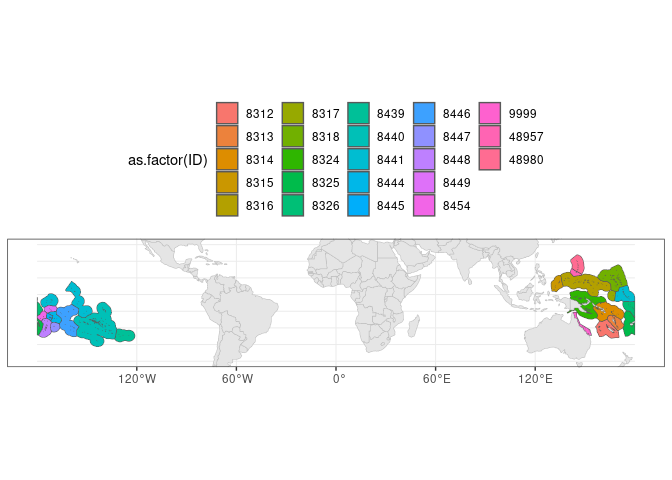
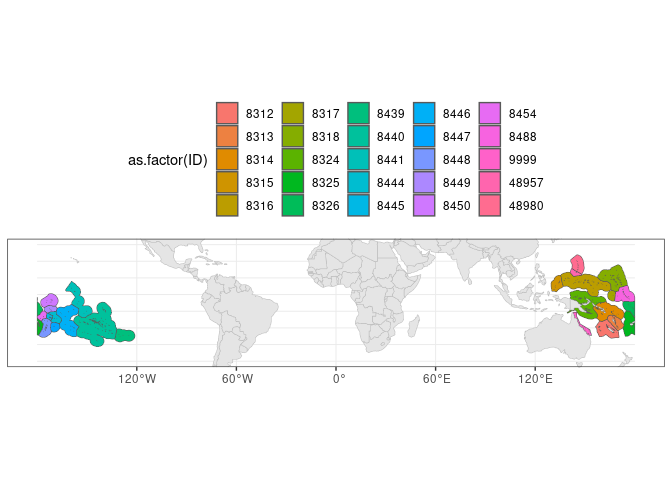
Updating notebook with new shapefile PICT

diff --git a/Scripts/01_Creating_Mask_SouthPacific_EEZs.md b/Scripts/01_Creating_Mask_SouthPacific_EEZs.md
@@ -60,6 +60,7 @@ combination of `R` and `Python` with the `reticulate` library.
 ``` r
 library(sf)
 library(terra)
+library(nngeo)
 library(tidyverse)
 library(reticulate)
 library(jsonlite)
@@ -186,6 +187,7 @@ eez_SP %>%
 ```
 
 ![](01_Creating_Mask_SouthPacific_EEZs_files/figure-gfm/unnamed-chunk-5-1.png)<!-- -->
+
 All the EEZs are located within our area of interest, the South Pacific,
 we can now save the results.
 
@@ -222,12 +224,8 @@ gbr
 
 ``` r
 #Turning off spherical geometry
-sf_use_s2(F)
-```
+# sf_use_s2(F)
 
-    ## Spherical geometry (s2) switched off
-
-``` r
 #Merging shapefiles
 gbr_eez_SP <- bind_rows(gbr, eez_SP)
 
@@ -286,8 +284,19 @@ gbr_eez_SP
     ## 9      3717 MULTIPOLYGON (((142.8511 -9...
     ## 10  2399638 MULTIPOLYGON (((145 -7.7348...
 
-We will edit the GBR entry, so the name will be more informative. We
-will also provide a unique ID and remove any columns that are empty.
+We will edit the GBR entry, so the name will be more informative. We can
+also see above that `Papua New Guinea` (PNG) has two EEZ codes (rows 9
+and 10 above). This is because there is a small section of the EEZ that
+is shared with Australia under the [Torres Strait Treaty of
+1978](https://www.ags.gov.au/legal-briefing-no-116#_ftnref15). Under
+this treaty, the shared EEZ between these two countries is designated as
+a Protected Zone that allow inhabitants of PNG and the Torres Strait to
+move freely to undertake traditional activities, such as traditional
+fishing. Given that this and the fact that this project is concerned
+with changes in fish biomass, we will consider the entire EEZ to be part
+of `Papua New Guinea`, so we will provide a unique ID identifying these
+two areas. We will also rename `Kiribati`, so it includes the names of
+the subregion under the `name` column.
 
 ``` r
 gbr_eez_SP <- gbr_eez_SP %>% 
@@ -304,8 +313,14 @@ gbr_eez_SP <- gbr_eez_SP %>%
   remove_empty("cols") %>% 
   #We will give give the small MRGID value to all polygons as an ID
   group_by(name) %>% 
-  mutate(n = n(), ID = case_when(n > 1 ~ min(MRGID), T ~ MRGID)) %>% 
-  select(-n)
+  #Given same ID to two EEZs in Papua New Guinea
+  mutate(ID = case_when(str_detect(name, "Papua") ~ min(MRGID),
+                        T ~ MRGID),
+         #Including subregion name in Kiribati EEZs
+         name = case_when(name == "Kiribati" ~ paste(name, TERRITORY1, sep = " - "),
+                          name == "Micronesia" ~ paste0(name, " (FSM)"),
+                          T ~ name)) |> 
+  ungroup()
 
 #Checking results
 gbr_eez_SP
@@ -317,13 +332,12 @@ gbr_eez_SP
     ## Bounding box:  xmin: -180 ymin: -31.24447 xmax: 180 ymax: 23.89565
     ## Geodetic CRS:  WGS 84
     ## # A tibble: 26 × 11
-    ## # Groups:   name [23]
     ##    id    name          MRGID GEONAME SOVEREIGN1 SOVEREIGN2 TERRITORY1 TERRITORY2
     ##    <fct> <chr>         <dbl> <chr>   <chr>      <fct>      <fct>      <fct>     
     ##  1 <NA>  GBR            9999 Great … Australia  <NA>       <NA>       <NA>      
-    ##  2 KI    Kiribati       8450 Kiriba… Kiribati   <NA>       Phoenix G… <NA>      
-    ##  3 KI    Kiribati       8441 Kiriba… Kiribati   <NA>       Line Group <NA>      
-    ##  4 KI    Kiribati       8488 Kiriba… Kiribati   <NA>       Gilbert I… <NA>      
+    ##  2 KI    Kiribati - P…  8450 Kiriba… Kiribati   <NA>       Phoenix G… <NA>      
+    ##  3 KI    Kiribati - L…  8441 Kiriba… Kiribati   <NA>       Line Group <NA>      
+    ##  4 KI    Kiribati - G…  8488 Kiriba… Kiribati   <NA>       Gilbert I… <NA>      
     ##  5 PF    French Polyn…  8440 French… France     <NA>       French Po… <NA>      
     ##  6 MP    Northern Mar… 48980 Northe… United St… <NA>       Northern … <NA>      
     ##  7 WF    Wallis and F…  8454 Wallis… France     <NA>       Wallis an… <NA>      
@@ -347,6 +361,9 @@ gbr_eez_SP %>%
 ```
 
 ![](01_Creating_Mask_SouthPacific_EEZs_files/figure-gfm/unnamed-chunk-9-1.png)<!-- -->
+
+The map now looks as we expected, so we can save the results into memory
+for using in mapping.
 
 ## Saving results
 
@@ -375,8 +392,8 @@ gbr_eez_SP %>%
 ## Creating raster masks
 
 We will need to create a raster mask for each unique grid. In this case,
-IPSL and GFDL share the same 60 arc minute (1 degree) grid, but IPSL
-inputs are also available at a 120 arc minute (2 degree) resolution.
+IPSL and GFDL share the same 60 arc minute ($1^\circ$) grid, but IPSL
+inputs are also available at a 120 arc minute ($2^{\circ}$) resolution.
 This means that we will need to create two different masks.
 
 Since none of the polygons included in our South Pacific EEZ/GBR
@@ -494,7 +511,7 @@ raster_to_csv <- function(raster_path){
 }
 ```
 
-Applying function
+Applying function to all raster masks.
 
 ``` r
 #Getting list of mask rasters
